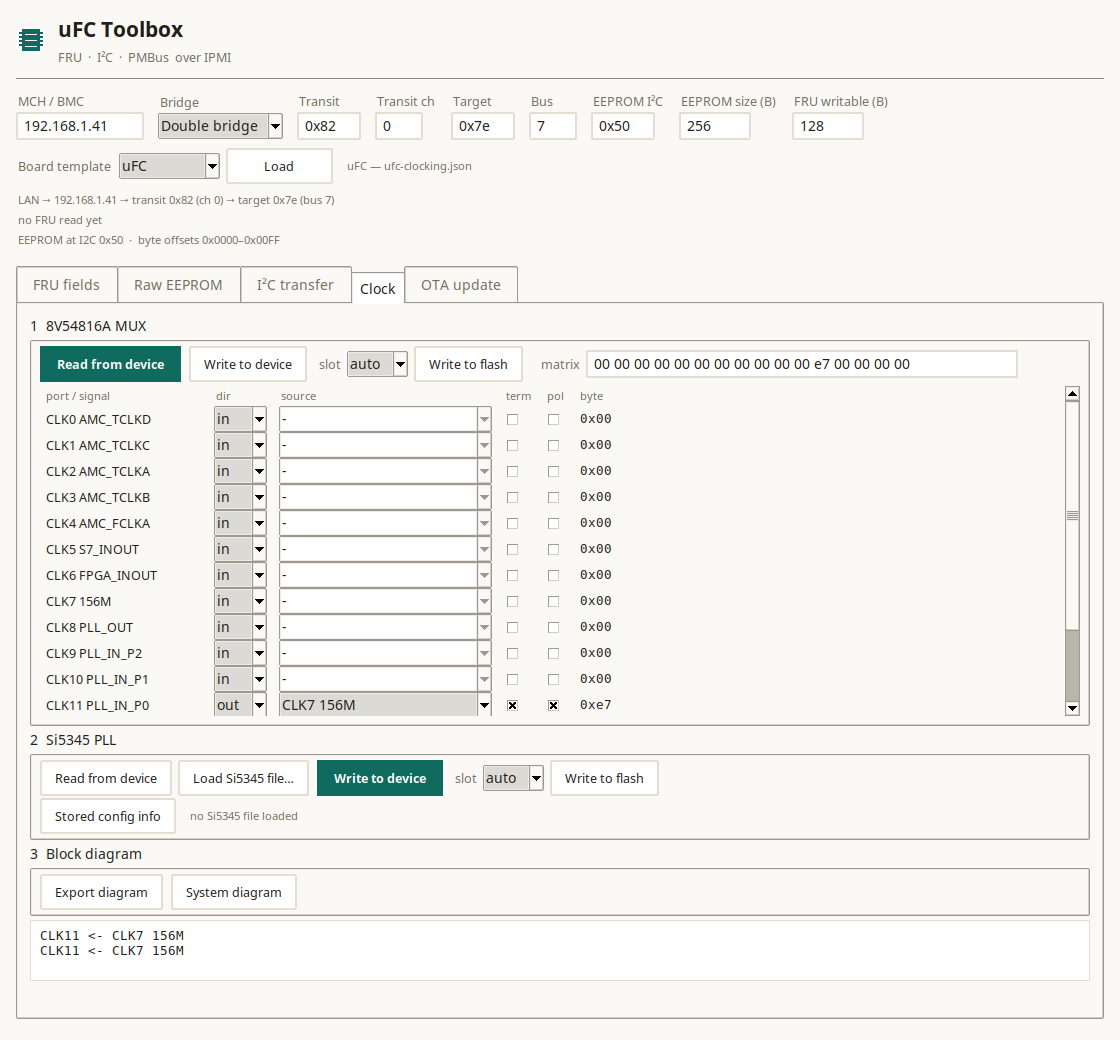
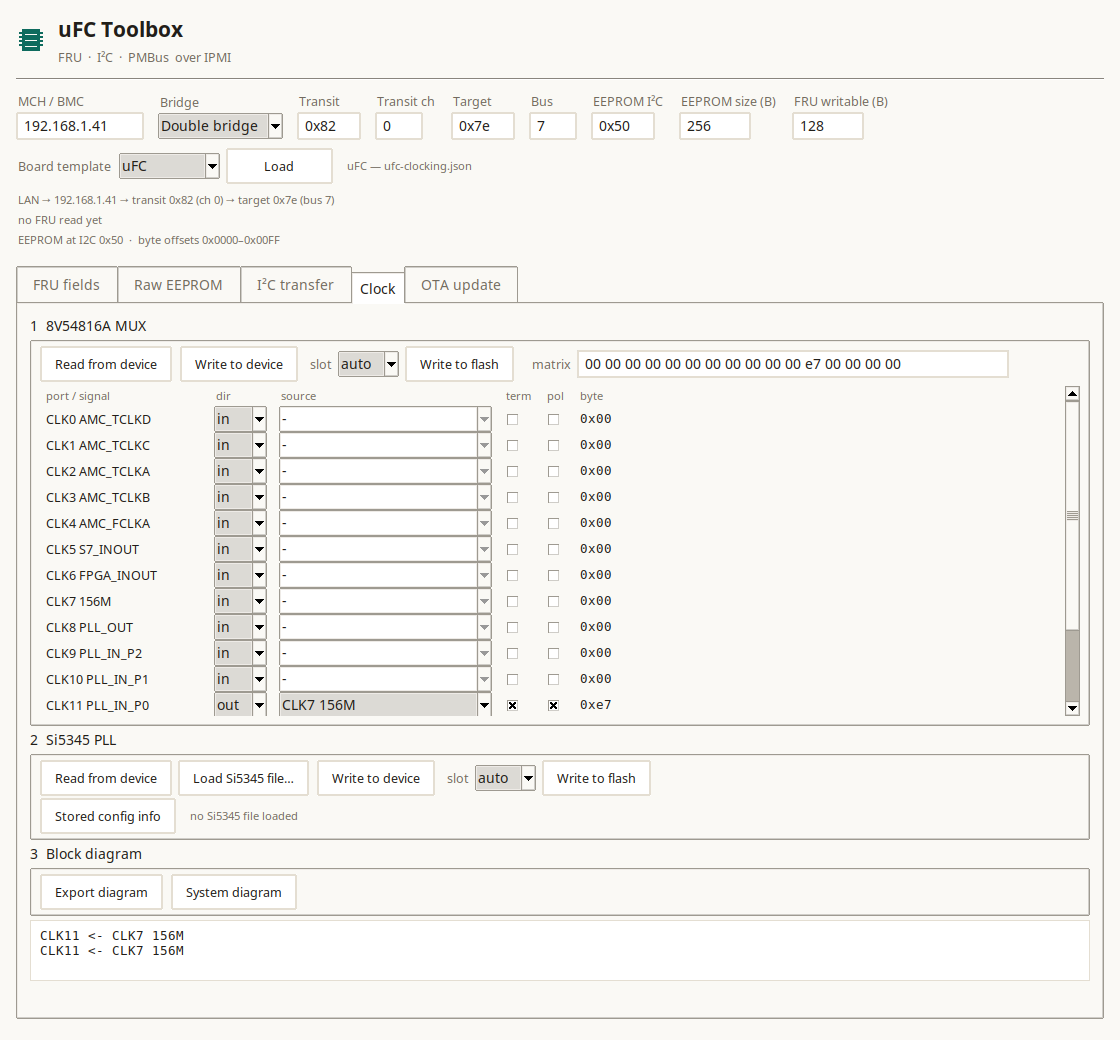
toolbox: remove the green primary buttons
Read FRU, Read from device, Write to device and Transfer used the
accent-filled Primary.TButton style, which made them look special for no
functional reason. The style and all its uses are gone; every button now
uses the neutral TButton look. Screenshot and binary updated.

Changed region(s): [[0.0312, 0.3077, 0.8125, 0.3692], [0.2812, 0.7077, 0.5938, 0.7692]]

diff --git a/tools/uFC_toolbox/fru_gui_tk.py b/tools/uFC_toolbox/fru_gui_tk.py
@@ -131,12 +131,6 @@ class FruEditor(tk.Tk):
                      lightcolor=LINE, darkcolor=LINE, focuscolor=BG, padding=(12, 6),
                      font=(UI_FONT, 9))
         st.map("TButton", background=[("active", "#F3F0E9"), ("pressed", "#EDE9DF")])
-        st.configure("Primary.TButton", background=ACCENT, foreground="#FFFFFF",
-                     bordercolor=ACCENT, lightcolor=ACCENT, darkcolor=ACCENT,
-                     padding=(14, 6), font=(UI_FONT, 9, "bold"))
-        st.map("Primary.TButton",
-               background=[("active", ACCENT_HOVER), ("pressed", ACCENT_HOVER)],
-               foreground=[("disabled", "#D8E6E2")])
         st.configure("TNotebook", background=BG, borderwidth=0, tabmargins=(0, 4, 0, 0))
         st.configure("TNotebook.Tab", background=BG, foreground=MUTED,
                      padding=(14, 6), borderwidth=0)
@@ -256,7 +250,7 @@ class FruEditor(tk.Tk):
 
         toolbar = ttk.Frame(self.fields_tab, padding=(12, 8, 12, 0))
         toolbar.pack(fill="x")
-        ttk.Button(toolbar, text="Read FRU", style="Primary.TButton",
+        ttk.Button(toolbar, text="Read FRU",
                    command=self.read_fru).pack(side="left")
         ttk.Button(toolbar, text="Write FRU",
                    command=self.write_fru).pack(side="left", padx=(8, 0))
@@ -355,7 +349,7 @@ class FruEditor(tk.Tk):
         mux.pack(fill="both", expand=True, pady=(0, 4))
         mrow = ttk.Frame(mux)
         mrow.pack(fill="x", pady=(0, 4))
-        readb = ttk.Button(mrow, text="Read from device", style="Primary.TButton",
+        readb = ttk.Button(mrow, text="Read from device",
                            command=self.clock_switch_read)
         readb.pack(side="left")
         self._hint(readb, "Read the 16 port bytes from the switch and update the table")
@@ -450,7 +444,7 @@ class FruEditor(tk.Tk):
         lf = ttk.Button(prow, text="Load Si5345 file…", command=self.si_load)
         lf.pack(side="left", padx=(6, 0))
         self._hint(lf, "Load a ClockBuilder register script (pre/body/post)")
-        dev = ttk.Button(prow, text="Write to device", style="Primary.TButton",
+        dev = ttk.Button(prow, text="Write to device",
                          command=self.si_write_device)
         dev.pack(side="left", padx=(8, 0))
         self._hint(dev, "Write the loaded table to the Si5345 RAM over I2C - "
@@ -1431,7 +1425,7 @@ class FruEditor(tk.Tk):
         self.i2c_rlen = tk.StringVar(value="8")
         ttk.Entry(row, textvariable=self.i2c_rlen, width=4).pack(side="left", padx=(6, 16))
 
-        ttk.Button(row, text="Transfer", style="Primary.TButton",
+        ttk.Button(row, text="Transfer",
                    command=self.i2c_transfer).pack(side="left")
 
         datarow = ttk.Frame(parent)
